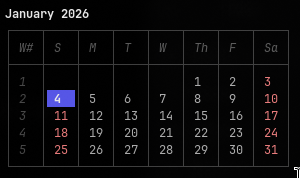
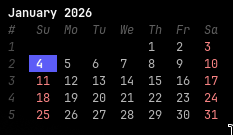
code refactor and simpler look

Changed region(s): [[0.0, 0.0296, 1.0, 1.0]]

diff --git a/zen-cal.go b/zen-cal.go
@@ -1,198 +1,8 @@
 package main
 
 import (
-	"fmt"
-	"time"
-
 	tea "github.com/charmbracelet/bubbletea"
-	lipgloss "github.com/charmbracelet/lipgloss"
-	table "github.com/charmbracelet/lipgloss/table"
 )
-
-// MODEL DATA
-type calendarPage struct {
-	currDay   int
-	currMonth time.Month
-	currYear  int
-	selMonth  time.Month
-	selYear   int
-}
-
-func newCalendarPage() calendarPage {
-	year, month, day := time.Now().Date()
-	return calendarPage{
-		currDay:   day,
-		currMonth: month,
-		currYear:  year,
-		selMonth:  month,
-		selYear:   year,
-	}
-}
-
-// Init
-func (c calendarPage) Init() tea.Cmd { return tea.ClearScreen }
-
-// VIEW
-func (c calendarPage) View() string {
-	return buildCal(c)
-}
-
-// UPDATE
-func (c calendarPage) Update(msg tea.Msg) (tea.Model, tea.Cmd) {
-	switch msg := msg.(type) {
-	case tea.KeyMsg:
-		switch msg.String() {
-		case "ctrl+c", "q", "esc":
-			return c, tea.Quit
-
-		case "j": // increase year
-			c.selYear++
-
-		case "k": // decrease year
-			c.selYear--
-
-		case "l": // increase month
-			if c.selMonth == time.December {
-				c.selMonth = time.January
-				c.selYear++
-			} else {
-				c.selMonth++
-			}
-
-		case "h": // decrease month
-			if c.selMonth == time.January {
-				c.selMonth = time.December
-				c.selYear--
-			} else {
-				c.selMonth--
-			}
-
-		case "r": // get new curr time and reset today
-			year, month, day := time.Now().Date()
-			c.currDay = day
-			c.currMonth = month
-			c.currYear = year
-			c.selMonth = month
-			c.selYear = year
-		}
-	}
-	return c, nil
-}
-
-func getMonthInfo(month time.Month, year int) (time.Weekday, int) {
-	firstDay := time.Date(year, month, 1, 0, 0, 0, 0, time.Local)
-	firstWeekDay := firstDay.Weekday() // Sunday = 0
-	lastDay := firstDay.AddDate(0, 1, -1).Day()
-	return firstWeekDay, lastDay
-}
-
-func buildCal(c calendarPage) string {
-	// --- Palette ---
-	subtle := lipgloss.Color("241")    // Dim gray
-	accent := lipgloss.Color("63")     // Soft slate blue
-	highlight := lipgloss.Color("231") // Near white
-	weekend := lipgloss.Color("210")   // Soft salmon/muted red
-
-	// --- Styles ---
-	titleStyle := lipgloss.NewStyle().
-		Bold(true).
-		Foreground(highlight)
-
-	cellStyle := lipgloss.NewStyle().
-		Width(4). // Increased width for breathing room
-		Align(lipgloss.Center)
-
-	// Header (S M T W...)
-	headerStyle := cellStyle.
-		Foreground(subtle).
-		Italic(true)
-
-	// Week numbers (the left column)
-	weekNumStyle := cellStyle.
-		Foreground(lipgloss.Color("239")).
-		Italic(true)
-
-	// Standard days
-	weekdayStyle := cellStyle.Foreground(lipgloss.Color("250"))
-	weekendStyle := cellStyle.Foreground(weekend)
-
-	// Modern "Today" Style: Subtle but distinct
-	todayStyle := cellStyle.
-		Foreground(highlight).
-		Background(accent).
-		Bold(true)
-
-	// --- Logic ---
-	firstWeekDay, lastDay := getMonthInfo(c.selMonth, c.selYear)
-	var rows [][]string
-	var currentRow []string
-
-	// Using ISO week logic or simple increment
-	week := 1
-	currentRow = append(currentRow, fmt.Sprintf("%d", week))
-
-	for i := 0; i < int(firstWeekDay); i++ {
-		currentRow = append(currentRow, "")
-	}
-
-	currWeekDay := int(firstWeekDay)
-	for d := 1; d <= lastDay; d++ {
-		if currWeekDay%7 == 0 && d != 1 {
-			rows = append(rows, currentRow)
-			week++
-			currentRow = []string{fmt.Sprintf("%d", week)}
-		}
-		currentRow = append(currentRow, fmt.Sprintf("%d", d))
-		currWeekDay++
-	}
-
-	for len(currentRow) < 8 {
-		currentRow = append(currentRow, "")
-	}
-	rows = append(rows, currentRow)
-
-	// --- Table Rendering ---
-	t := table.New().
-		Border(lipgloss.NormalBorder()).
-		BorderStyle(lipgloss.NewStyle().Foreground(lipgloss.Color("238"))).
-		Headers("W#", "S", "M", "T", "W", "Th", "F", "Sa").
-		Rows(rows...).
-		StyleFunc(func(row, col int) lipgloss.Style {
-			if row == table.HeaderRow {
-				return headerStyle
-			}
-
-			// Week Number Column
-			if col == 0 {
-				return weekNumStyle
-			}
-
-			dayStr := rows[row][col]
-			if dayStr == "" {
-				return cellStyle
-			}
-
-			// Check if Today
-			isToday := c.selMonth == c.currMonth &&
-				c.selYear == c.currYear &&
-				dayStr == fmt.Sprintf("%d", c.currDay)
-
-			if isToday {
-				return todayStyle
-			}
-
-			// Weekend Coloring
-			if col == 1 || col == 7 {
-				return weekendStyle
-			}
-
-			return weekdayStyle
-		})
-
-	title := titleStyle.Render(fmt.Sprintf("%s %d", c.selMonth, c.selYear))
-
-	return lipgloss.JoinVertical(lipgloss.Left, title, t.String())
-}
 
 func main() {
 	p := tea.NewProgram(newCalendarPage())

diff --git a/utils.go b/utils.go
@@ -1,0 +1,73 @@
+package main
+
+import (
+	"time"
+
+	lipgloss "github.com/charmbracelet/lipgloss"
+)
+
+// MODEL DATA
+type calendarPage struct {
+	currDay   int
+	currMonth time.Month
+	currYear  int
+	selMonth  time.Month
+	selYear   int
+}
+
+func newCalendarPage() calendarPage {
+	year, month, day := time.Now().Date()
+	return calendarPage{
+		currDay:   day,
+		currMonth: month,
+		currYear:  year,
+		selMonth:  month,
+		selYear:   year,
+	}
+}
+
+func getMonthInfo(month time.Month, year int) (time.Weekday, int, int) {
+	firstDay := time.Date(year, month, 1, 0, 0, 0, 0, time.Local)
+	firstWeekDay := firstDay.Weekday() // Sunday = 0
+	lastDay := firstDay.AddDate(0, 1, -1).Day()
+	jan1 := time.Date(year, time.January, 1, 0, 0, 0, 0, time.Local)
+	week := (firstDay.YearDay()+int(jan1.Weekday())-1)/7 + 1
+	return firstWeekDay, week, lastDay
+}
+
+func getPallete() (lipgloss.Color, lipgloss.Color, lipgloss.Color, lipgloss.Color) {
+	subtle := lipgloss.Color("241")    // Dim gray
+	accent := lipgloss.Color("63")     // Soft slate blue
+	highlight := lipgloss.Color("231") // Near white
+	weekend := lipgloss.Color("210")   // Soft salmon/muted red
+	return subtle, accent, highlight, weekend
+}
+
+func getStyles() (lipgloss.Style, lipgloss.Style, lipgloss.Style, lipgloss.Style, lipgloss.Style, lipgloss.Style) {
+	subtle, accent, highlight, weekend := getPallete()
+	titleStyle := lipgloss.NewStyle().
+		Bold(true).
+		Foreground(highlight)
+
+	cellStyle := lipgloss.NewStyle().
+		Width(4). // Increased width for breathing room
+		Align(lipgloss.Center)
+
+	headerStyle := cellStyle.
+		Foreground(subtle).
+		Italic(true)
+
+	weekNumStyle := cellStyle.
+		Foreground(lipgloss.Color("239")).
+		Italic(true)
+
+	weekdayStyle := cellStyle.Foreground(lipgloss.Color("250"))
+	weekendStyle := cellStyle.Foreground(weekend)
+
+	todayStyle := cellStyle.
+		Foreground(highlight).
+		Background(accent).
+		Bold(true)
+
+	return titleStyle, headerStyle, weekNumStyle, weekdayStyle, weekendStyle, todayStyle
+}

diff --git a/view.go b/view.go
@@ -1,0 +1,60 @@
+package main
+
+import (
+	"fmt"
+	"strings"
+
+	lipgloss "github.com/charmbracelet/lipgloss"
+)
+
+// VIEW
+func (c calendarPage) View() string {
+	return buildCal(c)
+}
+
+func buildCal(c calendarPage) string {
+	titleStyle, headerStyle, weekNumStyle, weekdayStyle, weekendStyle, todayStyle := getStyles()
+
+	firstWeekDay, week, lastDay := getMonthInfo(c.selMonth, c.selYear)
+
+	var cal strings.Builder
+
+	headers := [8]string{"#", "Su", "Mo", "Tu", "We", "Th", "Fr", "Sa"}
+	for _, header := range headers {
+		cal.WriteString(headerStyle.Render(header))
+	}
+	cal.WriteByte('\n')
+
+	cal.WriteString(weekNumStyle.Render(fmt.Sprintf("%d", week)))
+
+	currWeekDay := int(firstWeekDay)
+	for i := 0; i < currWeekDay; i++ {
+		// Render an empty string with the cell style to maintain 4-char width
+		cal.WriteString(weekdayStyle.Render(""))
+	}
+
+	for d := 1; d <= lastDay; d++ {
+		if currWeekDay%7 == 0 && d != 1 {
+			cal.WriteByte('\n')
+			week++
+			cal.WriteString(weekNumStyle.Render(fmt.Sprintf("%d", week)))
+		}
+
+		dayStr := fmt.Sprintf("%d", d)
+		var style lipgloss.Style
+
+		if d == c.currDay && c.currYear == c.selYear && c.selMonth == c.currMonth {
+			style = todayStyle
+		} else if currWeekDay%7 == 0 || currWeekDay%7 == 6 {
+			style = weekendStyle
+		} else {
+			style = weekdayStyle
+		}
+
+		cal.WriteString(style.Render(dayStr))
+		currWeekDay++
+	}
+
+	title := titleStyle.MarginLeft(1).Render(fmt.Sprintf("%s %d", c.selMonth, c.selYear))
+	return lipgloss.JoinVertical(lipgloss.Left, title, cal.String())
+}

diff --git a/update.go b/update.go
@@ -1,0 +1,49 @@
+package main
+
+import (
+	"time"
+
+	tea "github.com/charmbracelet/bubbletea"
+)
+
+// UPDATE
+func (c calendarPage) Update(msg tea.Msg) (tea.Model, tea.Cmd) {
+	switch msg := msg.(type) {
+	case tea.KeyMsg:
+		switch msg.String() {
+		case "ctrl+c", "q", "esc":
+			return c, tea.Quit
+
+		case "j", "down": // increase year
+			c.selYear++
+
+		case "k", "up": // decrease year
+			c.selYear--
+
+		case "l", "left": // increase month
+			if c.selMonth == time.December {
+				c.selMonth = time.January
+				c.selYear++
+			} else {
+				c.selMonth++
+			}
+
+		case "h", "right": // decrease month
+			if c.selMonth == time.January {
+				c.selMonth = time.December
+				c.selYear--
+			} else {
+				c.selMonth--
+			}
+
+		case "r", "enter": // get new curr time and reset today
+			year, month, day := time.Now().Date()
+			c.currDay = day
+			c.currMonth = month
+			c.currYear = year
+			c.selMonth = month
+			c.selYear = year
+		}
+	}
+	return c, nil
+}

diff --git a/init.go b/init.go
@@ -1,0 +1,6 @@
+package main
+
+import tea "github.com/charmbracelet/bubbletea"
+
+// Init
+func (c calendarPage) Init() tea.Cmd { return tea.ClearScreen }
